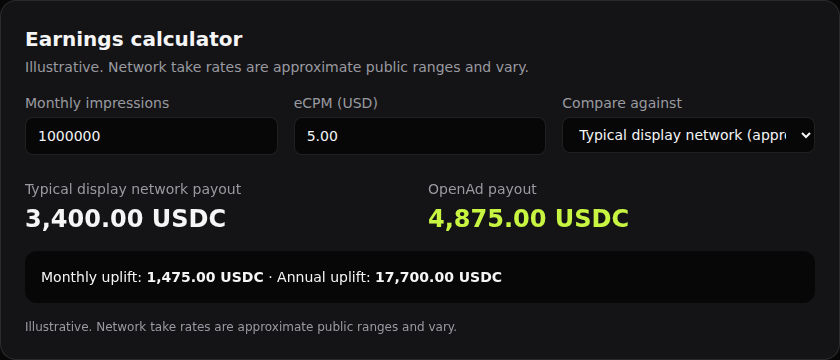
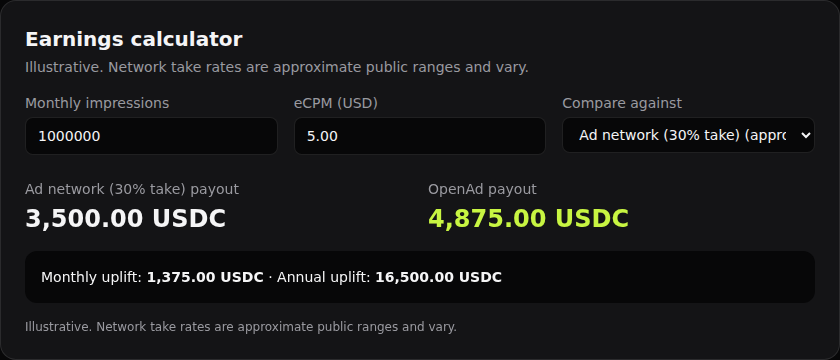
docs(launch): checkpoint the docs-truth pass (in progress)
Work in progress for step 46: demo script, pitch deck, architecture,
threat model and /why wording. Review follows.

Claude-Session: https://claude.ai/code/session_01Reb6XCAsVKDJU3ey2h3zGZ

diff --git a/web/src/lib/earnings.test.ts b/web/src/lib/earnings.test.ts
@@ -5,14 +5,22 @@ import { compareEarnings, TAKE_RATE_PRESETS } from './earnings';
 
 describe('compareEarnings', () => {
   it('payout + fee == gross on both sides', () => {
-    const r = compareEarnings({ monthlyImpressions: 1_000_000n, ecpmMicros: 5_000_000n, networkTakeBps: 3200 });
+    const r = compareEarnings({
+      monthlyImpressions: 1_000_000n,
+      ecpmMicros: 5_000_000n,
+      networkTakeBps: 3200,
+    });
     expect(r.networkPublisherPayout + r.networkFee).toBe(r.grossSpend);
     expect(r.openAdPublisherPayout + r.openAdFee).toBe(r.grossSpend);
   });
 
   it('exact values for three fixed cases', () => {
     // 1,000,000 impressions at $5 eCPM (5,000,000 micros) = 5,000,000,000 gross base units.
-    const a = compareEarnings({ monthlyImpressions: 1_000_000n, ecpmMicros: 5_000_000n, networkTakeBps: 3200 });
+    const a = compareEarnings({
+      monthlyImpressions: 1_000_000n,
+      ecpmMicros: 5_000_000n,
+      networkTakeBps: 3200,
+    });
     expect(a.grossSpend).toBe(5_000_000_000n);
     expect(a.networkFee).toBe(1_600_000_000n); // 32% of gross
     expect(a.networkPublisherPayout).toBe(3_400_000_000n);
@@ -21,15 +29,24 @@ describe('compareEarnings', () => {
     expect(a.monthlyUplift).toBe(1_475_000_000n);
     expect(a.annualUplift).toBe(17_700_000_000n);
 
-    // 500,000 impressions at $2.50 eCPM, crypto ad network preset (40%).
-    const b = compareEarnings({ monthlyImpressions: 500_000n, ecpmMicros: 2_500_000n, networkTakeBps: 4000 });
+    // 500,000 impressions at $2.50 eCPM, a 40% comparison take rate (the middle preset).
+    const b = compareEarnings({
+      monthlyImpressions: 500_000n,
+      ecpmMicros: 2_500_000n,
+      networkTakeBps: 4000,
+    });
     expect(b.grossSpend).toBe(1_250_000_000n);
     expect(b.networkPublisherPayout).toBe(750_000_000n);
     expect(b.openAdPublisherPayout).toBe(1_218_750_000n);
     expect(b.monthlyUplift).toBe(468_750_000n);
 
-    // 10,000 impressions at $1 eCPM, agency-sold direct preset (20%).
-    const c = compareEarnings({ monthlyImpressions: 10_000n, ecpmMicros: 1_000_000n, networkTakeBps: 2000 });
+    // 10,000 impressions at $1 eCPM, a 20% comparison take rate (outside the preset range, still
+    // a valid input to the pure function).
+    const c = compareEarnings({
+      monthlyImpressions: 10_000n,
+      ecpmMicros: 1_000_000n,
+      networkTakeBps: 2000,
+    });
     expect(c.grossSpend).toBe(10_000_000n);
     expect(c.networkPublisherPayout).toBe(8_000_000n);
     expect(c.openAdPublisherPayout).toBe(9_750_000n);
@@ -37,7 +54,11 @@ describe('compareEarnings', () => {
   });
 
   it('zero impressions gives 0 everywhere', () => {
-    const r = compareEarnings({ monthlyImpressions: 0n, ecpmMicros: 5_000_000n, networkTakeBps: 3200 });
+    const r = compareEarnings({
+      monthlyImpressions: 0n,
+      ecpmMicros: 5_000_000n,
+      networkTakeBps: 3200,
+    });
     expect(r.grossSpend).toBe(0n);
     expect(r.networkPublisherPayout).toBe(0n);
     expect(r.openAdPublisherPayout).toBe(0n);
@@ -46,23 +67,36 @@ describe('compareEarnings', () => {
   });
 
   it('a network take of 0 bps gives the network the full gross', () => {
-    const r = compareEarnings({ monthlyImpressions: 100_000n, ecpmMicros: 1_000_000n, networkTakeBps: 0 });
+    const r = compareEarnings({
+      monthlyImpressions: 100_000n,
+      ecpmMicros: 1_000_000n,
+      networkTakeBps: 0,
+    });
     expect(r.networkFee).toBe(0n);
     expect(r.networkPublisherPayout).toBe(r.grossSpend);
   });
 
   it('floors match feeSplit for the OpenAd side', () => {
     const gross = 5_000_000_000n;
-    const r = compareEarnings({ monthlyImpressions: 1_000_000n, ecpmMicros: 5_000_000n, networkTakeBps: 3200 });
+    const r = compareEarnings({
+      monthlyImpressions: 1_000_000n,
+      ecpmMicros: 5_000_000n,
+      networkTakeBps: 3200,
+    });
     const expected = feeSplit(gross);
     expect(r.openAdFee).toBe(expected.fee);
     expect(r.openAdPublisherPayout).toBe(expected.publisherAmount);
   });
 
-  it('exposes the three labelled presets, each marked approx.', () => {
-    expect(TAKE_RATE_PRESETS).toHaveLength(3);
+  it('exposes three presets pinned at 30/40/50% take, each marked approx., inside the one range competitive.md backs', () => {
+    expect(TAKE_RATE_PRESETS.map((p) => p.takeBps)).toEqual([3000, 4000, 5000]);
     for (const preset of TAKE_RATE_PRESETS) {
       expect(preset.label).toMatch(/approx\./);
+      expect(preset.id).not.toMatch(/crypto|agency/i);
+      expect(preset.label).not.toMatch(/crypto|agency/i);
     }
+    // The default (index 0) is the conservative, low end, so the headline uplift on /why is the
+    // smallest of the three, never the most flattering one.
+    expect(TAKE_RATE_PRESETS[0].takeBps).toBe(3000);
   });
 });

diff --git a/web/src/features/marketing/WhyPage.test.tsx b/web/src/features/marketing/WhyPage.test.tsx
@@ -33,14 +33,19 @@ describe('WhyPage', () => {
     expect(after).not.toBe(before);
   });
 
-  it('changing the preset changes the comparison payout', () => {
-    renderPage();
+  it("changing the preset changes the comparison payout but never OpenAd's own", () => {
+    const { container } = renderPage();
     const select = screen.getByLabelText('Compare against');
-    const before = screen.getByText('OpenAd payout').nextElementSibling?.textContent;
-    fireEvent.change(select, { target: { value: 'agency' } });
-    const after = screen.getByText('OpenAd payout').nextElementSibling?.textContent;
-    // OpenAd's own payout never changes with the comparison preset — only the network side does.
-    expect(after).toBe(before);
+    const payouts = () =>
+      Array.from(container.querySelectorAll('.text-2xl')).map((el) => el.textContent);
+    const openAdBefore = screen.getByText('OpenAd payout').nextElementSibling?.textContent;
+    const [networkBefore] = payouts();
+    fireEvent.change(select, { target: { value: 'network-50' } });
+    const openAdAfter = screen.getByText('OpenAd payout').nextElementSibling?.textContent;
+    const [networkAfter] = payouts();
+    // Only the network side moves with the comparison preset.
+    expect(networkAfter).not.toBe(networkBefore);
+    expect(openAdAfter).toBe(openAdBefore);
   });
 
   it('links to /embed-demo', () => {
@@ -51,8 +56,10 @@ describe('WhyPage', () => {
     );
   });
 
-  it('never renders "sell" for a slot (glossary copy)', () => {
+  it('never sells or leases a slot itself (glossary copy: a publisher sells periods)', () => {
     renderPage();
-    expect(document.body.textContent).not.toMatch(/sell(s|ing)? a slot/i);
+    expect(document.body.textContent).not.toMatch(
+      /\b(sell|lease)(s|d|ing)? (an? )?(ad )?slots?\b/i,
+    );
   });
 });

diff --git a/web/src/lib/earnings.ts b/web/src/lib/earnings.ts
@@ -7,19 +7,25 @@
  */
 import { FEE_BPS, feeSplit } from './auction';
 
-/** A take-rate preset, each labelled "approx." in the UI: a published, typical range for that
- * category, not a specific network's real rate. */
+/** A take-rate preset, each labelled "approx." in the UI: a point inside the one range
+ * `docs/business/competitive.md` backs with a public figure (~30-50% for network/exchange
+ * intermediaries), not a specific network's real rate. Every other category in that doc (crypto
+ * ad networks, newsletter marketplaces, direct/agency deals) is documented as "varies" or
+ * "negotiated" — no public number to point at. */
 export interface TakeRatePreset {
   id: string;
   label: string;
   takeBps: number;
 }
 
-/** Approximate public ranges (illustrative, not any single named network's figure). */
+/** Three points in the one backed range (~30-50%), low to high. The default (index 0, 30%) is
+ * the conservative end, so the headline uplift on `/why` is the smallest of the three, not the
+ * most flattering one. `WhyPage.tsx` strips the trailing `(approx.)` for the payout caption, so
+ * the take-rate percentage lives in its own, earlier parenthetical and survives the strip. */
 export const TAKE_RATE_PRESETS = [
-  { id: 'display', label: 'Typical display network (approx. 32% take)', takeBps: 3200 },
-  { id: 'crypto', label: 'Crypto ad network (approx. 40% take)', takeBps: 4000 },
-  { id: 'agency', label: 'Agency-sold direct (approx. 20% take)', takeBps: 2000 },
+  { id: 'network-30', label: 'Ad network (30% take) (approx.)', takeBps: 3000 },
+  { id: 'network-40', label: 'Ad network (40% take) (approx.)', takeBps: 4000 },
+  { id: 'network-50', label: 'Ad network (50% take) (approx.)', takeBps: 5000 },
 ] as const satisfies readonly TakeRatePreset[];
 
 export interface CompareEarningsInput {

diff --git a/e2e/demo/flows.spec.ts b/e2e/demo/flows.spec.ts
@@ -234,6 +234,25 @@ test('advertiser CPC: register creative → request approval → open, top up an
   await expect(page.getByRole('button', { name: 'Buy', exact: true })).toHaveCount(0);
 });
 
+test('demo script: the 15-minute CPC step as written', async ({ page }) => {
+  await connect(page); // Nimbus Wallet is the default persona — no persona switch.
+  await nav(page, 'Campaigns');
+
+  await page.getByRole('button', { name: 'Open campaign' }).click();
+  const dialog = page.getByRole('dialog');
+  await dialog.locator('input').first().fill('1'); // Slot id 1 (CPC, approval waived).
+  await dialog.locator('select').selectOption('3'); // Creative 3, Nimbus's verified 300×250.
+  await dialog.getByRole('button', { name: 'Next' }).click();
+  await dialog.getByRole('button', { name: 'Next' }).click(); // Keep the default max CPC/budget.
+  await dialog.getByRole('button', { name: 'Fund with permit' }).last().click();
+  await expect(dialog).toContainText('Confirmed on chain');
+  await dialog.getByRole('button', { name: 'Close' }).click();
+
+  // The seeded campaigns are 1-3, so the new one is Campaign 4.
+  const campaign = page.locator('li', { hasText: 'Campaign 4 · slot 1 · creative 3' });
+  await expect(campaign).toContainText('remaining 10.00 USDC of 10.00 USDC');
+});
+
 test('publisher: SIWE → supply dashboard → mint, calendar, terms → approve → off-chain tools', async ({
   page,
 }) => {

diff --git a/web/src/features/marketing/WhyPage.tsx b/web/src/features/marketing/WhyPage.tsx
@@ -60,12 +60,12 @@ export function WhyPage() {
         </h1>
         <p className="mt-3 max-w-2xl text-muted">
           OpenAd is a non-custodial advertising marketplace on Base, at the default 2.5% protocol
-          fee (on-chain governed, capped at 10%). Publishers lease ad slots by Dutch auction (LEASE)
-          or run pay-per-click campaigns (CPC); advertisers pay in USDC. Non-custodial: LEASE pays
-          the publisher inside the buy transaction; CPC budgets sit in an on-chain escrow vault the
-          advertiser can close, paid out at batch settlement. No one at OpenAd holds keys to your
-          funds. There are no tracking scripts in the embed, and no ad-network approval gate —
-          publishers approve creatives directly.
+          fee (on-chain governed, capped at 10%). Publishers sell periods of their slots by Dutch
+          auction (LEASE), or open them to pay-per-click campaigns (CPC); advertisers pay in USDC.
+          Non-custodial: LEASE pays the publisher inside the buy transaction; CPC budgets sit in an
+          on-chain escrow vault the advertiser can close, paid out at batch settlement. No one at
+          OpenAd holds keys to your funds. There are no tracking scripts in the embed, and no
+          ad-network approval gate — publishers approve creatives directly.
         </p>
       </section>
 

diff --git a/web/index.html b/web/index.html
@@ -7,11 +7,11 @@
     <title>OpenAd</title>
     <!-- Static defaults only: a shared page carries the same preview everywhere it's linked.
          Per-slot previews (e.g. a slot page's own domain and price) need server-rendered OG tags,
-         which this SPA does not do — tracked in the JIT backlog, step 14+15. -->
+         which this SPA does not do — tracked in ROADMAP 7.1. -->
     <meta property="og:title" content="OpenAd — non-custodial ad marketplace on Base" />
     <meta
       property="og:description"
-      content="Publishers sell ad slots by Dutch auction; advertisers buy a period in one transaction. No custody, no tracking, 2.5% default fee."
+      content="Publishers sell each period of an ad slot by Dutch auction; advertisers buy a period in one transaction. No custody, no tracking, 2.5% default fee."
     />
     <meta property="og:type" content="website" />
     <meta name="twitter:card" content="summary" />

diff --git a/docs/ARCHITECTURE.md b/docs/ARCHITECTURE.md
@@ -146,7 +146,9 @@ unit tests.
 Public reads:
 
 - `GET /v1/health` — liveness; includes indexer lag in blocks.
-- `GET /v1/slots?domain=&kind=&verified=` — list slots with terms, next open periods, indicative prices.
+- `GET /v1/slots?domain=&kind=&category=&limit=&offset=` — list slots (`kind` 0-3; `limit` 1-200,
+  default 50; `offset` ≥ 0, default 0). Returns `{items, total}`: slots with their terms and
+  listing. Periods and indicative prices come from `/periods` below.
 - `GET /v1/slots/{slot_id}` — slot detail; also serves as ERC-721 `tokenURI` metadata JSON when `Accept: application/json` (this is what `AdSlot.base_uri` points at).
 - `GET /v1/slots/{slot_id}/periods?from=&to=` — period calendar with lease status and quote
   inputs. Capped at 60 periods per request (`to − from + 1 ≤ 60`); a wider window gets a
@@ -168,8 +170,12 @@ Authenticated (SIWE session; wallet must match the acting address):
 
 - `POST /v1/auth/nonce`, `POST /v1/auth/verify`, `POST /v1/auth/logout`.
 - `PUT /v1/slots/{slot_id}/house-ad` — slot owner only.
+- `PUT /v1/slots/{slot_id}/listing`, `DELETE /v1/slots/{slot_id}/listing` — slot owner only
+  (§3.2 `slot_listings`, ROADMAP 6.3).
 - `POST /v1/slots/{slot_id}/domain-verification` — start/refresh verification.
 - `POST /v1/creatives/{creative_id}/verify` — request (re)verification of media.
+- `GET /v1/publishers/{address}/pricing-suggestion?slot_id=` — the wallet must be the publisher
+  (`address`) and own `slot_id`.
 
 No endpoint ever accepts a private key or signs a chain transaction.
 
@@ -300,8 +306,9 @@ same creative no longer hold a connection out of the pool for the fetch's durati
 3. Sniff MIME; must equal `mime` and be in the allowlist (`image/png`, `image/jpeg`,
    `image/webp`, `image/gif`). Decode and check `width × height` equals the registered
    dimensions, else `failed:dimensions`.
-4. `click_url` must be `https://` and not on the phishing blocklist (`OPENAD_SAFE_BROWSING_KEY`,
-   optional in dev).
+4. `click_url` must be empty or `https://` (`check_click_url`). There is no phishing or malware
+   blocklist yet (ROADMAP 7.19); `OPENAD_SAFE_BROWSING_KEY` is reserved and nothing reads it.
+   Takedown today is the publisher's approval and the moderator's revoke.
 5. Store bytes at `cached_path` via `services/media_store.py`'s `MediaStore` (local disk in dev,
    GCS in prod behind `OPENAD_MEDIA_BACKEND`, ADR-0017). Mark `verified`.
 

diff --git a/docs/threat-model.md b/docs/threat-model.md
@@ -1,15 +1,16 @@
 # Threat model (ROADMAP 4.3)
 
-Scope: OpenAd v1 protocol (`AdSlot`, `Marketplace`, `CreativeRegistry`), the indexer/API
-serve path, and the Vite web app. Specified (not implemented): `CampaignVault` + settler
-(ADR-0014). Out of scope: GCP, live Base mainnet ops, English occupancy auctions.
+Scope: the v1 protocol including `AdSlot`, `Marketplace`, `CreativeRegistry` and `CampaignVault`,
+the indexer and API serve path, the CPC settler process (ADR-0014), the web app, and the GCP
+deploy configuration (ADR-0017, `infra/gcp/`). Out of scope: live Base mainnet operations, GCP
+organization and account security, and English occupancy auctions.
 
 ## Assets
 
 - Publisher slot NFTs and calendar/terms configuration
 - Advertiser USDC and registered creatives (LEASE `buy` and CPC campaign `remaining`)
 - Lease table (who may occupy a period)
-- Campaign table and payable click log (Specified ADR-0014)
+- Campaign table and payable click log (ADR-0014)
 - Verified media cache (what visitors see)
 - SIWE sessions (off-chain house ads / domain verification only)
 
@@ -85,6 +86,9 @@ serve path, and the Vite web app. Specified (not implemented): `CampaignVault` +
   of any of their own media creatives, whatever its status (`verify_creative` re-fetches a
   verified or failed creative as well as a pending one) — each one bounded and
   connection-releasing, but not rate limited.
+- Click URLs are checked for `https://` only, with no phishing or malware blocklist yet
+  (ROADMAP 7.19). A publisher that waives approval accepts any landing page a creative's
+  `click_url` points to; the moderator's revoke is the only takedown until then.
 
 ## Review artifacts
 

diff --git a/README.md b/README.md
@@ -87,10 +87,10 @@ npm run stack:docker
 ./scripts/dev-down.sh    # stops docker; --reset drops pgdata/31337.json/api/.cache
 ```
 
-Setup deploys the protocol on Anvil (CreativeRegistry, AdSlot, Marketplace, MockUSDC) and applies
-Alembic migrations. The manual equivalent of these scripts is in `docs/ARCHITECTURE.md` §7. After
-the stack is up: API health at `http://localhost:8000/v1/health`, web at
-`http://localhost:5173`.
+Setup deploys the protocol on Anvil (CreativeRegistry, AdSlot, Marketplace, MockUSDC,
+CampaignVault) and applies Alembic migrations. The manual equivalent of these scripts is in
+`docs/ARCHITECTURE.md` §7. After the stack is up: API health at `http://localhost:8000/v1/health`,
+web at `http://localhost:5173`.
 
 ## Run the demo locally
 
@@ -158,7 +158,7 @@ Start at [`docs/README.md`](docs/README.md). AI agents and new contributors: rea
 ```text
 contracts/   Vyper + Moccasin — AdSlot, Marketplace, CreativeRegistry, MockUSDC, CampaignVault
 api/         Python/FastAPI — read API, serving edge, chain indexer, CPC settler
-web/         Vite + React + MUI + wagmi — marketplace and dashboards (demo mode: ADR-0016)
+web/         Vite + React + Tailwind + wagmi/RainbowKit — marketplace and dashboards (demo mode: ADR-0016)
 embed/       <open-ad> web component (zero dependencies)
 e2e/         Playwright — YAML scenarios and the demo-mode suite
 sim/         Opt-in local Anvil persona daemon (ADR-0012)

diff --git a/docs/business/pitch-deck.md b/docs/business/pitch-deck.md
@@ -41,13 +41,18 @@ customer names, quotes, or traction are claimed — the deck is honest about cur
 
 ## Slide 4 — Demo
 
-- Live demo: publisher mints a slot, sets terms, advertiser buys a period, embed updates.
-- CPC path: advertiser funds a campaign, serve picks a winner, click settles in a batch.
+- LEASE: a publisher mints a slot and sets its calendar and terms. An advertiser buys a period in
+  one simulated transaction and gets the receipt: price, publisher/fee split and tx hash.
+- CPC: an advertiser funds a campaign, whose budget sits in escrow. The embed shows the top
+  campaign's creative, and the publisher's earnings include seeded batch settlements. The demo
+  has no live click traffic and no settler.
+- The `<open-ad>` embed renders each slot's current creative without reading the chain.
 - https://claude.ai/artifact/AzkEcWfmUT23GCo2qkWxE7 — private until the owner shares it; if the
   link asks you to sign in or request access, ask the OpenAd team for access.
 
-> Speaker notes: Run the demo live if possible; otherwise walk the linked recording. Demo mode
-> uses simulated data and a simulated wallet — say so explicitly, it's not a live chain.
+> Speaker notes: Run the demo live if possible; if it can't run live, use the screenshots in
+> `docs/business/assets/`. Demo mode uses simulated data and a simulated wallet — say so
+> explicitly, it's not a live chain.
 
 ## Slide 5 — How it works
 

diff --git a/docs/business/demo-script.md b/docs/business/demo-script.md
@@ -64,9 +64,13 @@ Skip the guided tour; walk the manual path so you can pause and answer questions
    falling in real time, then buy. Before closing the dialog (about 20–30 seconds), show the
    receipt: price paid, the publisher/fee split, the transaction hash, and "View slot" — then
    close it and show the wallet balance dropped by exactly the quote.
-3. **Switch persona to advertiser Fastlane L2** ("Viewing as" → Advertiser — Fastlane L2), then
-   **open a CPC campaign on `#/campaigns`.** Fund it, point out the hard budget cap (`remaining`
-   never exceeds what was funded).
+3. **Stay as advertiser Nimbus Wallet — open a CPC campaign on `#/campaigns`.**
+   - Click "Open campaign".
+   - Set Slot id `1` (CPC, approval waived) and Creative `3` (Nimbus's verified 300×250).
+   - Keep the default max CPC (0.2 USDC) and budget (10 USDC); click "Next" twice, then "Fund
+     with permit".
+   - Point at the new row — "… slot 1 · creative 3 … remaining 10.00 USDC of 10.00 USDC":
+     `remaining` never exceeds what was funded, and closing the campaign refunds what's left.
 4. **Switch to publisher Basecamp Weekly.** On `#/supply`:
    - Show pending creative approvals and approve one.
    - Show earnings = price − fee for the LEASE sale just made.

diff --git a/docs/ROADMAP.md b/docs/ROADMAP.md
@@ -367,6 +367,11 @@ blocks a testnet/staging launch. **7.10** (the independent security audit) does 
       guard; a zero period is unreachable today (`set_calendar` and the demo reducer both require
       `periodSeconds >= 3600`), so this is a defensive guard, not a live bug. Pointers:
       `web/src/features/marketplace/DiscoverPage.tsx`, `web/src/lib/auction.ts`.
+- [ ] **7.19 Phishing and malware check on click URLs.** Check each `click_url` against a
+      URL-reputation service (e.g. Google Safe Browsing, with `OPENAD_SAFE_BROWSING_KEY`) at
+      verification and on the scheduled re-check; otherwise drop the setting. Pointers:
+      `api/src/openad/services/media.py` (`check_click_url`), `api/src/openad/config.py`,
+      `docs/ARCHITECTURE.md` §3.5, `docs/threat-model.md`.
 
 ---
 
